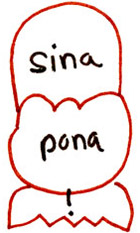
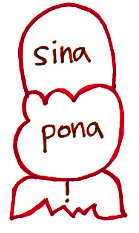
nimi ku suli

diff --git a/_layouts/dictionary.html b/_layouts/dictionary.html
@@ -9,3 +9,4 @@ layout: default
 {{ content }}
 
 {% include image_dictionary.html definitions=page.definitions grouping=page.grouping %}
+{% include image_dictionary.html definitions=page.second_definitions grouping=page.grouping %}

diff --git a/_pages/toki-pona/dictionaries/glyphs.md b/_pages/toki-pona/dictionaries/glyphs.md
@@ -29,6 +29,8 @@ definitions:
   text: e
 - image: "/images/t47_tokipona/nimi/t47_nimi_en.jpg"
   text: en
+- image: "/images/t47_tokipona/nimi/t47_nimi_epiku.jpg"
+  text: epiku
 - image: "/images/t47_tokipona/nimi/t47_nimi_esun.jpg"
   text: esun
 - image: "/images/t47_tokipona/nimi/t47_nimi_ijo.jpg"
@@ -45,6 +47,8 @@ definitions:
   text: jan
 - image: "/images/t47_tokipona/nimi/t47_nimi_jelo.jpg"
   text: jelo
+- image: "/images/t47_tokipona/nimi/t47_nimi_jasima.jpg"
+  text: jasima
 - image: "/images/t47_tokipona/nimi/t47_nimi_jo.jpg"
   text: jo
 - image: "/images/t47_tokipona/nimi/t47_nimi_kala.jpg"
@@ -59,6 +63,8 @@ definitions:
   text: ken
 - image: "/images/t47_tokipona/nimi/t47_nimi_kepeken.jpg"
   text: kepeken
+- image: "/images/t47_tokipona/nimi/t47_nimi_kijetesantakalu.jpg"
+  text: kijetesantakalu
 - image: "/images/t47_tokipona/nimi/t47_nimi_kili.jpg"
   text: kili
 - image: "/images/t47_tokipona/nimi/t47_nimi_kin.jpg"
@@ -69,6 +75,8 @@ definitions:
   text: kiwen
 - image: "/images/t47_tokipona/nimi/t47_nimi_ko.jpg"
   text: ko
+- image: "/images/t47_tokipona/nimi/t47_nimi_kokosila.jpg"
+  text: kokosila
 - image: "/images/t47_tokipona/nimi/t47_nimi_kon.jpg"
   text: kon
 - image: "/images/t47_tokipona/nimi/t47_nimi_kule.jpg"
@@ -79,6 +87,8 @@ definitions:
   text: kute
 - image: "/images/t47_tokipona/nimi/t47_nimi_la.jpg"
   text: la
+- image: "/images/t47_tokipona/nimi/t47_nimi_lanpan.jpg"
+  text: lanpan
 - image: "/images/t47_tokipona/nimi/t47_nimi_lape.jpg"
   text: lape
 - image: "/images/t47_tokipona/nimi/t47_nimi_laso.jpg"
@@ -87,6 +97,8 @@ definitions:
   text: lawa
 - image: "/images/t47_tokipona/nimi/t47_nimi_len.jpg"
   text: len
+- image: "/images/t47_tokipona/nimi/t47_nimi_leko.jpg"
+  text: leko
 - image: "/images/t47_tokipona/nimi/t47_nimi_lete.jpg"
   text: lete
 - image: "/images/t47_tokipona/nimi/t47_nimi_li.jpg"
@@ -115,18 +127,24 @@ definitions:
   text: mama (alt)
 - image: "/images/t47_tokipona/nimi/t47_nimi_mani.jpg"
   text: mani
+- image: "/images/t47_tokipona/nimi/t47_nimi_meso.jpg"
+  text: meso
 - image: "/images/t47_tokipona/nimi/t47_nimi_meli.jpg"
   text: meli
 - image: "/images/t47_tokipona/nimi/t47_nimi_mi.jpg"
   text: mi
 - image: "/images/t47_tokipona/nimi/t47_nimi_mije.jpg"
   text: mije
+- image: "/images/t47_tokipona/nimi/t47_nimi_misekeke.jpg"
+  text: misekeke
 - image: "/images/t47_tokipona/nimi/t47_nimi_moku.jpg"
   text: moku
 - image: "/images/t47_tokipona/nimi/t47_nimi_moli.jpg"
   text: moli
 - image: "/images/t47_tokipona/nimi/t47_nimi_monsi.jpg"
   text: monsi
+- image: "/images/t47_tokipona/nimi/t47_nimi_monsuta.jpg"
+  text: monsuta
 - image: "/images/t47_tokipona/nimi/t47_nimi_mu.jpg"
   text: mu
 - image: "/images/t47_tokipona/nimi/t47_nimi_mun.jpg"
@@ -135,6 +153,8 @@ definitions:
   text: musi
 - image: "/images/t47_tokipona/nimi/t47_nimi_mute.jpg"
   text: mute
+- image: "/images/t47_tokipona/nimi/t47_nimi_n.jpg"
+  text: n
 - image: "/images/t47_tokipona/nimi/t47_nimi_namako.jpg"
   text: namako
 - image: "/images/t47_tokipona/nimi/t47_nimi_nanpa.jpg"
@@ -209,6 +229,8 @@ definitions:
   text: sinpin
 - image: "/images/t47_tokipona/nimi/t47_nimi_sitelen.jpg"
   text: sitelen
+- image: "/images/t47_tokipona/nimi/t47_nimi_soko.jpg"
+  text: soko
 - image: "/images/t47_tokipona/nimi/t47_nimi_sona.jpg"
   text: sona
 - image: "/images/t47_tokipona/nimi/t47_nimi_soweli.jpg"
@@ -257,5 +279,19 @@ definitions:
   text: weka
 - image: "/images/t47_tokipona/nimi/t47_nimi_wile.jpg"
   text: wile
+second_definitions:
+- image: "/images/t47_tokipona/nimi/t47_nmpi_period.jpg"
+  text: '[.]'
+- image: "/images/t47_tokipona/nimi/t47_nmpi_comma.jpg"
+  text: '[,]'
+- image: "/images/t47_tokipona/nimi/t47_nmpi_exclamation.jpg"
+  text: '[!]'
+- image: "/images/t47_tokipona/nimi/t47_nmpi_question.jpg"
+  text: '[?]'
+- image: "/images/t47_tokipona/nimi/t47_nmpi_colon.jpg"
+  text: '[:]'
+- image: "/images/t47_tokipona/nimi/t47_nmpi_cartouche.jpg"
+  text: '[cartouche]'
+- image: "/images/t47_tokipona/nimi/t47_nmpi_capsule.jpg"
+  text: '[capsule]'
 ---
-

diff --git a/_pages/toki-pona/lesson-04-basic-sentences.md b/_pages/toki-pona/lesson-04-basic-sentences.md
@@ -30,9 +30,9 @@ vocabulary:
   text: telo
 - image: "/images/t47_tokipona/nimi/t47_nimi_toki.jpg"
   text: toki
-- image: "/images/t47_tokipona/nimi/t47_nmpi_period2.jpg"
+- image: "/images/t47_tokipona/nimi/t47_nmpi_period.jpg"
   text: period
-- image: "/images/t47_tokipona/nimi/t47_nmpi_exclamation2.jpg"
+- image: "/images/t47_tokipona/nimi/t47_nmpi_exclamation.jpg"
   text: exclamation
 toki_pona_tests:
 - image: /images/t47_tokipona/kamasona/basic/onalipona.jpg
